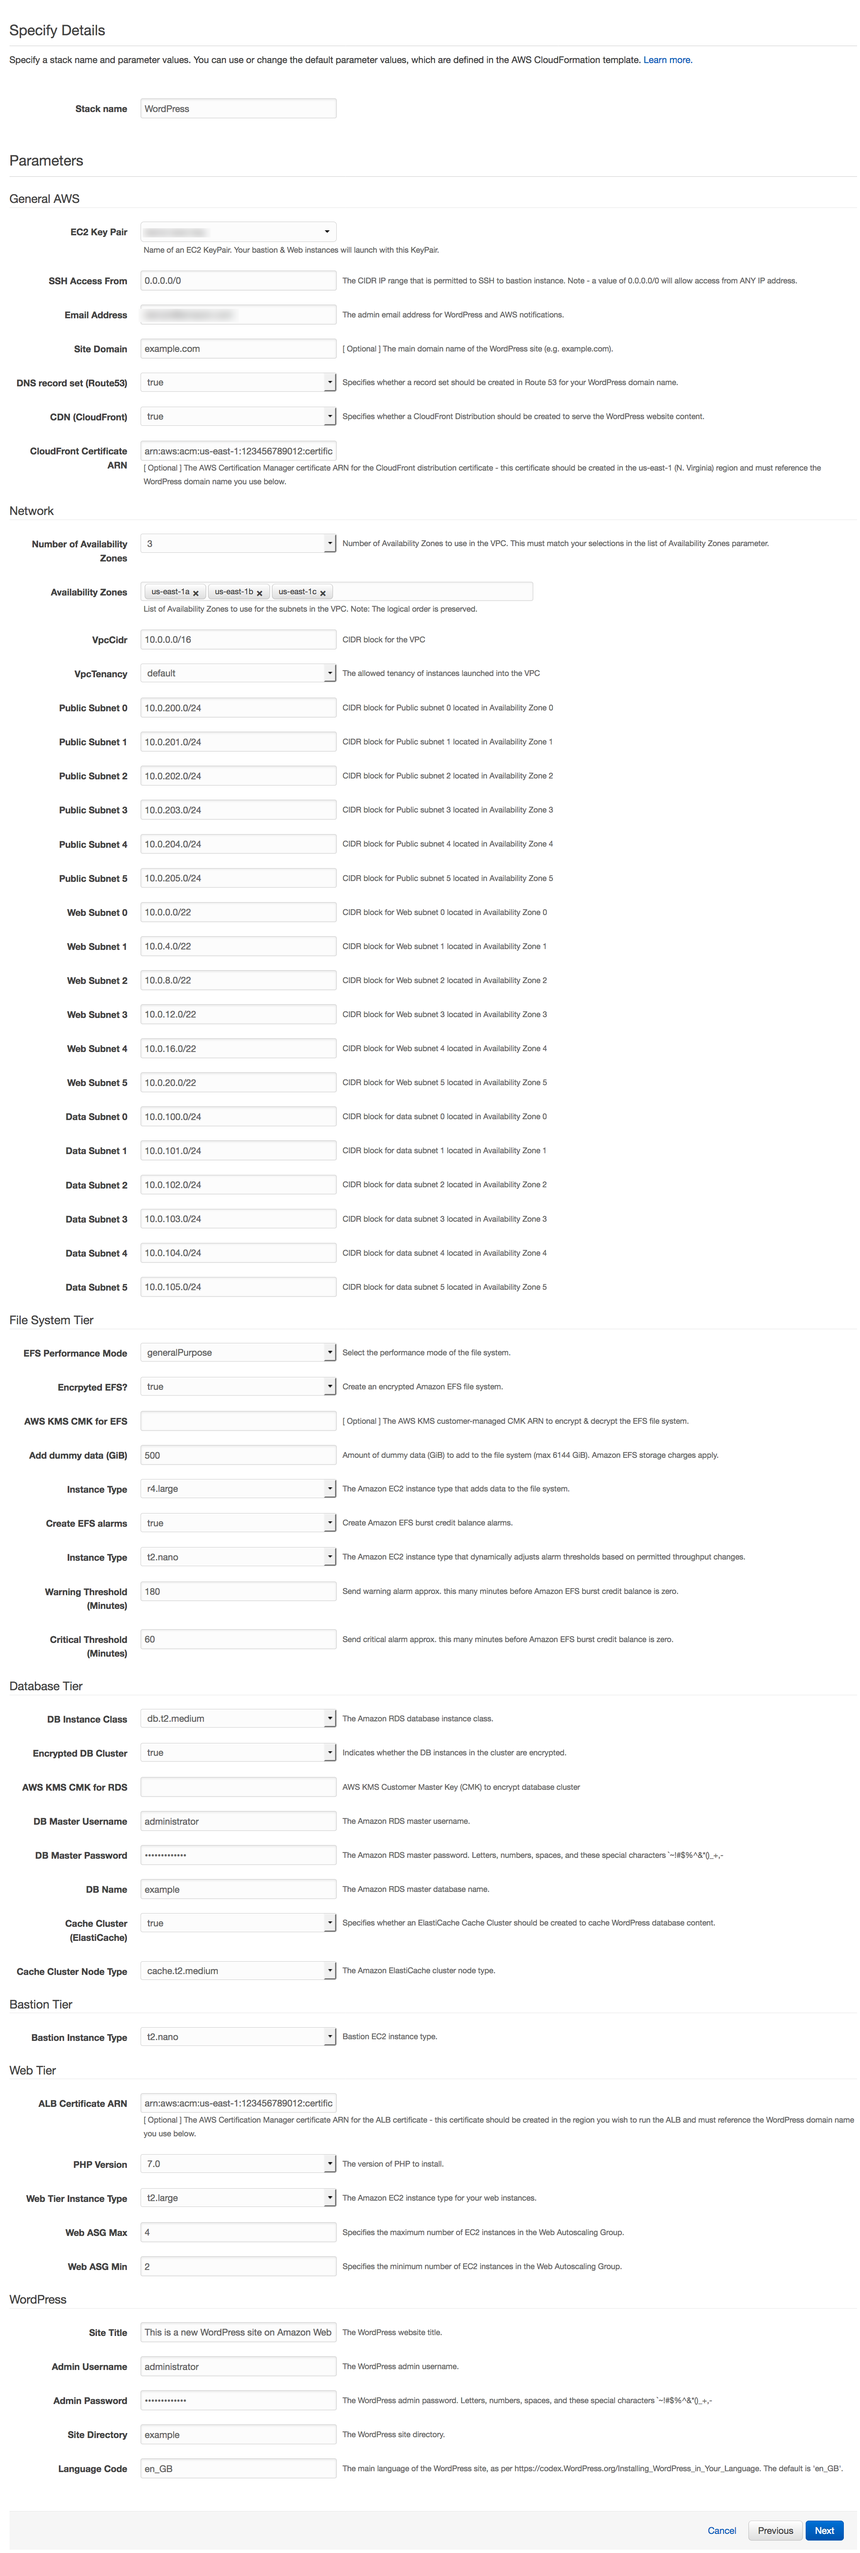
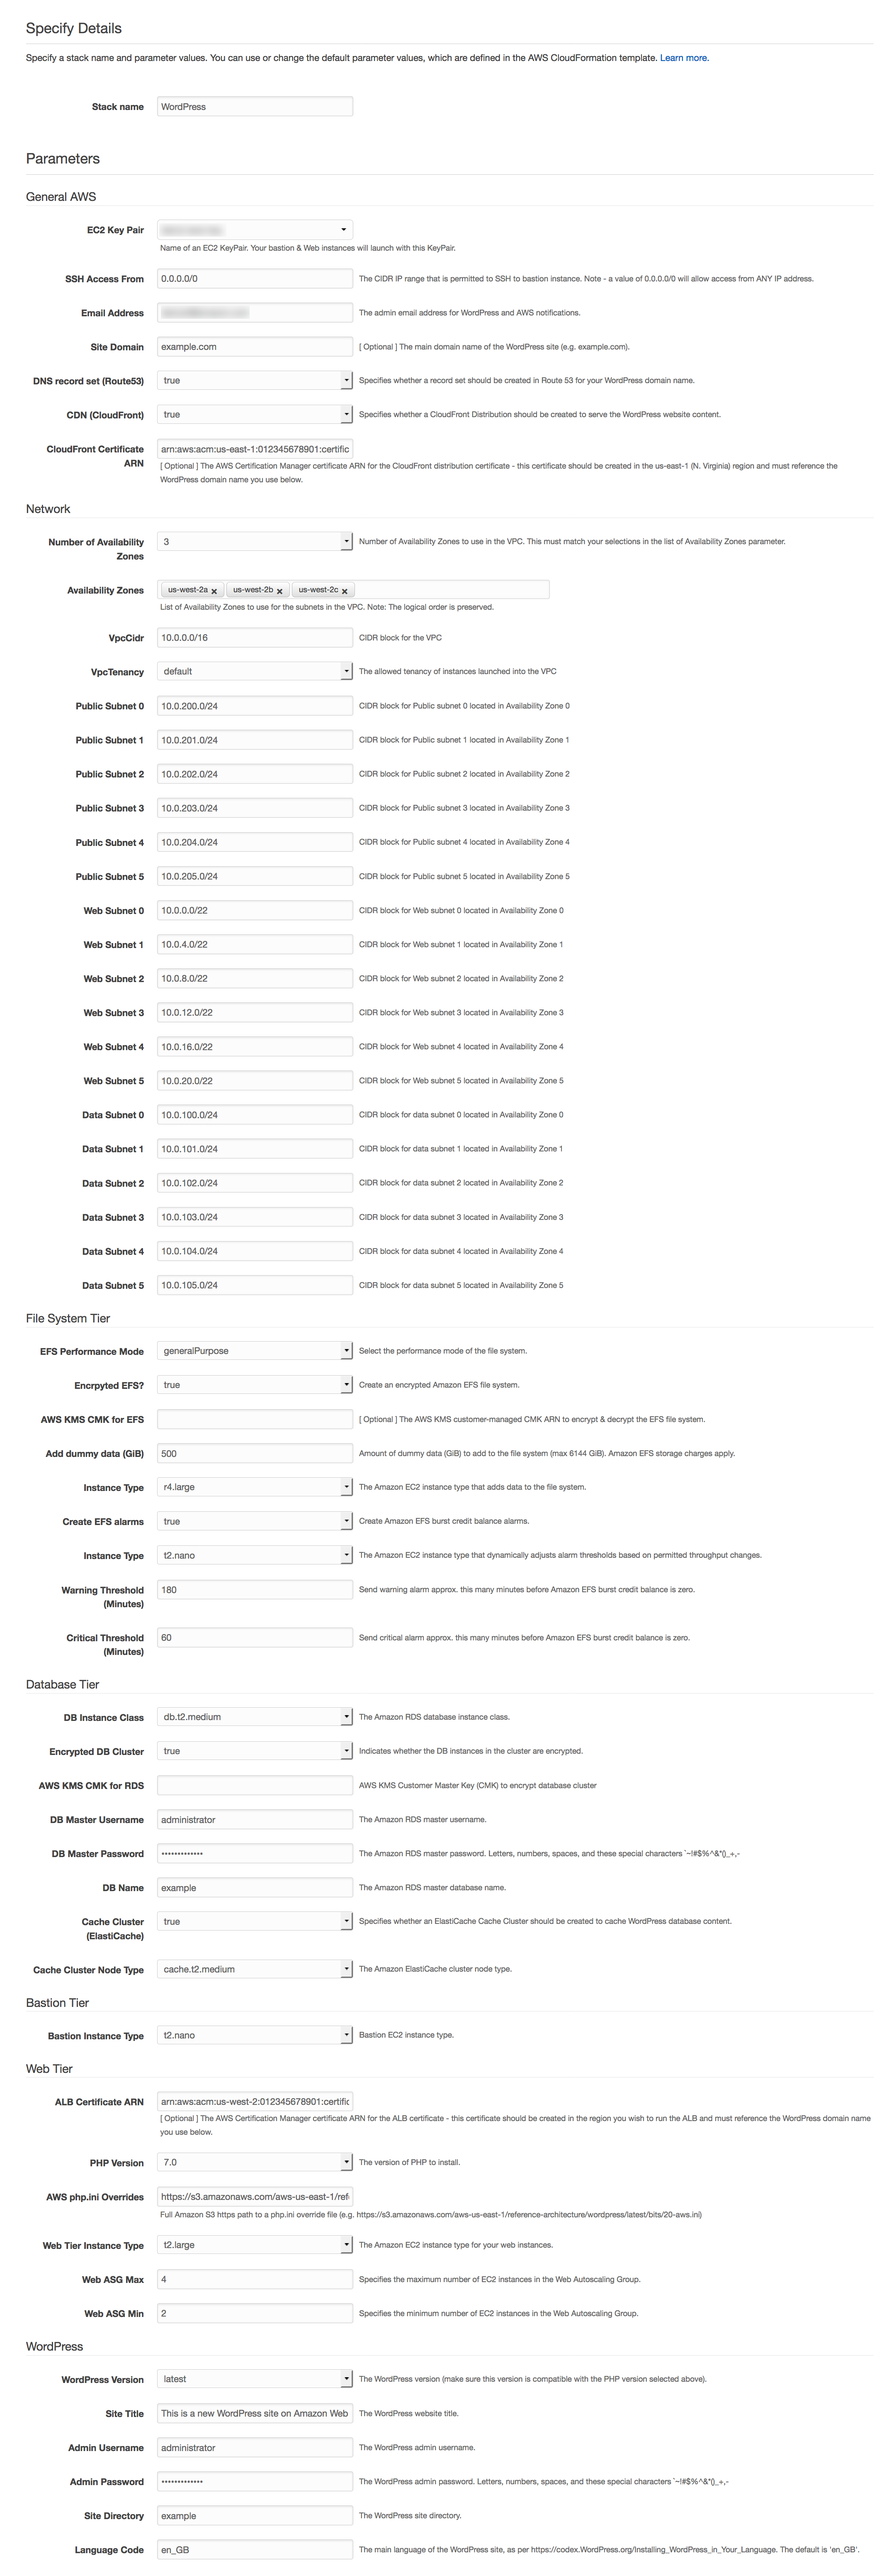
Version update 2.0.1
Added WP version selection & php.ini overrides option

diff --git a/README.md b/README.md
@@ -4,9 +4,9 @@
 
 # **Hosting WordPress on AWS**
 
-### Version 2.0.0
+### Version 2.0.1
 
-ara-wp-2.0.0
+ara-wp-2.0.1
 
 ---
 
@@ -27,7 +27,7 @@ The repository consists of a set of nested templates which are run in order from
 
 ## Update
 
-Please refer to history.md for a detailed list of changes in 2.0.0.
+Please refer to history.md for a detailed list of changes in 2.0.1.
 
 ## Parameters
 
@@ -46,6 +46,22 @@ You can launch this CloudFormation stack, using your account, in the following A
 | eu-west-1 |EU (Ireland)| [![cloudformation-launch-stack](images/cloudformation-launch-stack.png)](https://console.aws.amazon.com/cloudformation/home?region=eu-west-1#/stacks/new?stackName=WordPress&templateURL=https://s3.amazonaws.com/aws-refarch/wordpress/latest/templates/aws-refarch-wordpress-master.yaml) |
 | eu-central-1 |EU (Frankfurt)| [![cloudformation-launch-stack](images/cloudformation-launch-stack.png)](https://console.aws.amazon.com/cloudformation/home?region=eu-central-1#/stacks/new?stackName=WordPress&templateURL=https://s3.amazonaws.com/aws-refarch/wordpress/latest/templates/aws-refarch-wordpress-master.yaml) |
 | ap-southeast-2 |AP (Sydney)| [![cloudformation-launch-stack](images/cloudformation-launch-stack.png)](https://console.aws.amazon.com/cloudformation/home?region=ap-southeast-2#/stacks/new?stackName=WordPress&templateURL=https://s3.amazonaws.com/aws-refarch/wordpress/latest/templates/aws-refarch-wordpress-master.yaml) |
+
+#### Select WordPress version
+
+The version of WordPress can be selected. Possible values are latest, nightly, 4.5, 4.6, 4.7, 4.8, 4.9.
+
+#### Override PHP.ini defaults by downloading an overrides ini file from Amazon S3
+
+Create a custom .ini file that includes PHP overrides and make it publically available in an S3 bucket. These could be common overrides like **memory_limit**, **post_max_size**, **upload_max_filesize**, **max_input_time**, **max_execution_time**, etc. Amazon S3 object path should use https format (e.g.https://s3.amazonaws.com/aws-us-east-1/reference-architecture/wordpress/latest/bits/20-aws.ini). Sample PHP overrides are below and in the [samples/20-aws.ini](samples/20-aws.ini) directory.
+
+; Enable php.ini overrides for hosting WordPress on AWS - https://github.com/awslabs/aws-refarch-wordpress
+
+memory_limit = 128M
+post_max_size = 0
+upload_max_filesize = 64M
+max_input_time = 60
+max_execution_time = 30
 
 #### New EFS resources & dashboard
 

diff --git a/HISTORY.md b/HISTORY.md
@@ -1,5 +1,33 @@
 ## History
 ---
+Version: 2.0.1
+
+Published Date: 2017-12-16
+
+### Changes
+
+#### Master Template
+[aws-refarch-wordpress-master.yaml](templates/aws-refarch-wordpress-master.yaml)
+
+**Parameter & functionality changes**
+- Added WordPress version functionality. Possible values:
+  - latest
+  - nightly
+  - 4.5
+  - 4.6
+  - 4.7
+  - 4.8
+  - 4.9
+- Added a string field to an S3 object php.ini overrides file. Use the full https path of the object (e.g. https://s3.amazonaws.com/aws-refarch/wordpress/latest/bits/20-aws.ini).
+- updated samples parameter file
+- added sample 20-aws.ini to the samples directory
+
+## WordPress Web Template
+Review the template here [aws-refarch-wordpress-04-web.yaml](templates/aws-refarch-wordpress-04-web.yaml)
+
+- Added WordPress version selection (latest, nightly, 4.5, 4.6, 4.7, 4.8, 4.9) - Added field to enter full https path of php.ini overrides file (e.g. https://s3.amazonaws.com/aws-refarch/wordpress/latest/bits/20-aws.ini).
+
+---
 Version: 2.0.0
 
 Published Date: 2017-12-11
